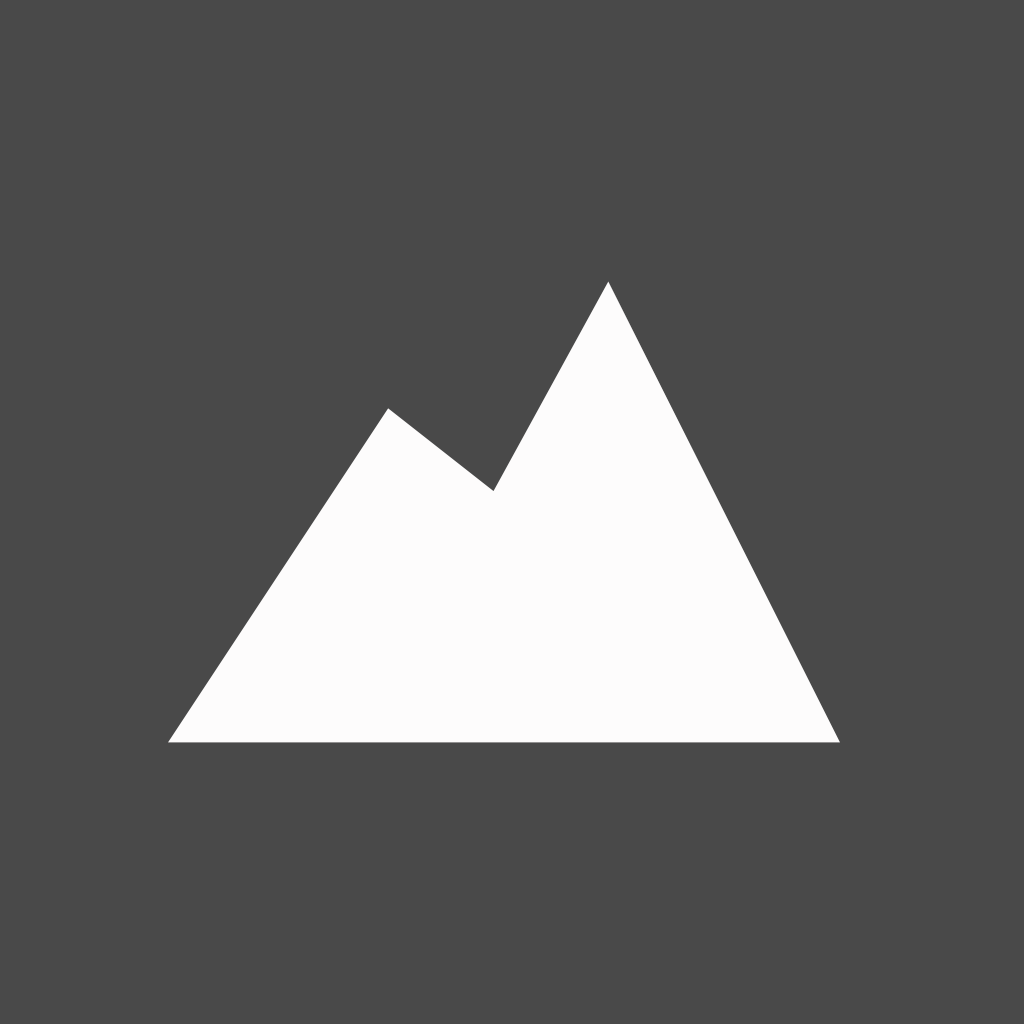
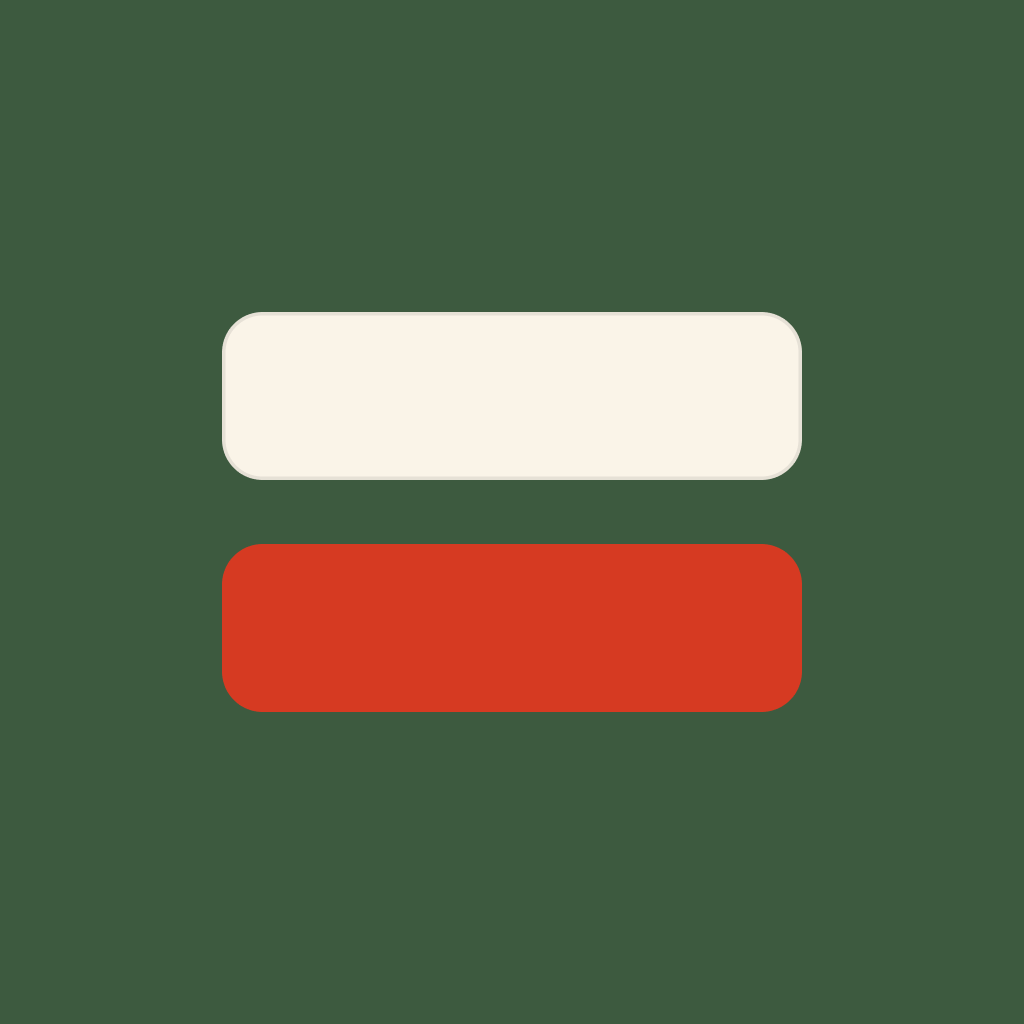
feat(design): blaze brand mark, app surfaces, map style version
- RoamLogo/RoamMark rebuilt as the red/cream GR waymark blaze (Figma
  274:1141): pill bars, cream hairline, wordmark Bricolage Bold in accent
  green; lg/sm lockups per spec; NavBar uses the sm lockup
- the three blaze placements: lockup/icon/splash, trail hero top-right,
  and the chip beside DAY n OF m on the active journey sheet
- app icon swapped to the Figma 1024 export (blaze on ink); Android
  adaptive icon bg #26231E; splash = lg lockup on #FAF7F1
- amenity Stay tiles use the new hut glyph (tab bar keeps home)
- MAP_STYLE_VERSION=2 added for offline trail packs (system lands in
  build phase 5; packs must key cached styles on it)
- POI marker layers already recolored via tokens; junction/peak markers
  don't exist yet — accent exemptions documented in the theme

Changed region(s): [[0.1562, 0.2812, 0.8125, 0.75]]

diff --git a/apps/mobile/components/ui/RoamLogo.tsx b/apps/mobile/components/ui/RoamLogo.tsx
@@ -1,32 +1,61 @@
 import { StyleSheet, Text, View } from 'react-native';
-import Svg, { Circle, Path } from 'react-native-svg';
 import { colors, fonts } from '../../theme';
 
-type Variant = 'dark' | 'light';
-
-/** The circular roam mark (dark = filled circle, light = outline-style on light). */
-export function RoamMark({ size = 28, variant = 'dark' }: { size?: number; variant?: Variant }) {
-  const circle = variant === 'dark' ? colors.accent : colors.bg.surface;
-  const glyph = variant === 'dark' ? colors.bg.surface : colors.accent;
+// The blaze brand mark — the red/cream GR waymark (Figma Logo Mark 274:1141).
+// Two full-width bars: cream on top (hairline border), red below, pill ends.
+// Box ratio w : 0.68w; each bar is 42% of the box height with a 16% gap.
+//
+// The blaze appears in exactly three product placements: (1) the logo
+// lockup / app icon / splash (empty states count as this), (2) top-right of
+// trail hero photos, (3) the chip beside "DAY n OF m" on the active journey
+// sheet. It is never a bullet, divider, spinner or generic badge — a fourth
+// placement requires a design decision first.
+export function RoamMark({ width = 19 }: { width?: number }) {
+  const height = width * 0.68;
+  const bar = height * 0.42;
   return (
-    <Svg width={size} height={size} viewBox="0 0 64 64">
-      <Circle cx={32} cy={32} r={32} fill={circle} />
-      <Path d="M14 44L25.4655 26.6L30.9531 30.9091L36.931 20L49 44H14Z" fill={glyph} />
-    </Svg>
+    <View style={{ width, height, justifyContent: 'space-between' }}>
+      <View
+        style={[styles.bar, styles.cream, { height: bar, borderRadius: bar }]}
+      />
+      <View style={[styles.bar, styles.red, { height: bar, borderRadius: bar }]} />
+    </View>
   );
 }
 
-/** Horizontal logo lockup: the mark followed by the "roam" wordmark. */
-export function RoamLogo({ size = 28 }: { size?: number }) {
+// Horizontal lockup (Figma Logo 187:926): the mark beside the "roam"
+// wordmark in Bricolage Bold, accent green. The mark matches the wordmark
+// x-height (≈52% of font size); both vertically centered.
+const LOCKUPS = {
+  lg: { mark: 38, gap: 11, fontSize: 48, letterSpacing: -0.72 },
+  sm: { mark: 19, gap: 6, fontSize: 24, letterSpacing: -0.36 },
+} as const;
+
+export function RoamLogo({ size = 'sm' }: { size?: keyof typeof LOCKUPS }) {
+  const s = LOCKUPS[size];
   return (
-    <View style={styles.row}>
-      <RoamMark size={size} />
-      <Text style={[styles.word, { fontSize: Math.round(size * 0.72) }]}>roam</Text>
+    <View style={[styles.row, { gap: s.gap }]}>
+      <RoamMark width={s.mark} />
+      <Text
+        style={[
+          styles.word,
+          { fontSize: s.fontSize, lineHeight: s.fontSize, letterSpacing: s.letterSpacing },
+        ]}
+      >
+        roam
+      </Text>
     </View>
   );
 }
 
 const styles = StyleSheet.create({
-  row: { flexDirection: 'row', alignItems: 'center', gap: 8 },
-  word: { fontFamily: fonts.bold, color: colors.text.primary, letterSpacing: -0.3 },
+  row: { flexDirection: 'row', alignItems: 'center' },
+  bar: { width: '100%' },
+  cream: {
+    backgroundColor: colors.brand.blazeCream,
+    borderWidth: StyleSheet.hairlineWidth,
+    borderColor: colors.brand.blazeHairline,
+  },
+  red: { backgroundColor: colors.brand.blazeRed },
+  word: { fontFamily: fonts.displayBold, color: colors.accent },
 });

diff --git a/apps/mobile/app/journey/active/[id].tsx b/apps/mobile/app/journey/active/[id].tsx
@@ -18,7 +18,7 @@ import {
   TrailLayer,
   UserMarker,
 } from '../../../components/map';
-import { Icon, IconButton } from '../../../components/ui';
+import { Icon, IconButton, RoamMark } from '../../../components/ui';
 import { stageSubGeometry, stageViewport } from '../../../lib/activeJourney';
 import { formatElevationM, formatKm, orientRoute, routeChainPlaces } from '../../../lib/format';
 import { locateOnLine } from '../../../lib/geo';
@@ -262,9 +262,13 @@ export default function ActiveJourneyScreen() {
             <>
               <View style={styles.grabber} />
               <View style={styles.stageSummary}>
-                <Text style={styles.summaryDay}>
-                  DAY {dayNum} OF {walkStages.length}
-                </Text>
+                {/* Blaze placement (3): the chip beside "DAY n OF m". */}
+                <View style={styles.summaryDayRow}>
+                  <RoamMark width={14} />
+                  <Text style={styles.summaryDay}>
+                    DAY {dayNum} OF {walkStages.length}
+                  </Text>
+                </View>
                 <Text style={styles.summaryTitle} numberOfLines={1}>
                   {routeLabel}
                 </Text>
@@ -393,6 +397,7 @@ const styles = StyleSheet.create({
     backgroundColor: colors.border.default,
   },
   stageSummary: { gap: spacing[1] },
+  summaryDayRow: { flexDirection: 'row', alignItems: 'center', gap: spacing[3] },
   summaryDay: { ...type.label, color: colors.text.secondary },
   summaryTitle: { ...type.sectionHeader, color: colors.text.primary },
   summaryMeta: { ...type.meta, color: colors.text.secondary },

diff --git a/apps/mobile/app/trail/[id].tsx b/apps/mobile/app/trail/[id].tsx
@@ -11,7 +11,7 @@ import {
 } from 'react-native';
 import { useSafeAreaInsets } from 'react-native-safe-area-context';
 import { MapView, TrailLayer } from '../../components/map';
-import { Button, Icon, StatPill } from '../../components/ui';
+import { Button, Icon, RoamMark, StatPill } from '../../components/ui';
 import type { IconName } from '../../components/ui';
 import { MAP_DEFAULT_CENTER, MAP_DEFAULT_ZOOM } from '../../config/map';
 import { useTrail, useTrailSections } from '../../lib/hooks';
@@ -97,6 +97,10 @@ export default function TrailDetailScreen() {
           <TouchableOpacity style={styles.backBtn} onPress={() => router.back()}>
             <Icon name="arrow-left" size={20} color={colors.accent} />
           </TouchableOpacity>
+          {/* Blaze placement (2): top-right of the trail hero photo. */}
+          <View style={styles.heroBlaze}>
+            <RoamMark width={22} />
+          </View>
           <Text style={styles.heroName}>{trail.ref ?? trail.name}</Text>
           {subtitle ? <Text style={styles.heroSub}>{subtitle}</Text> : null}
         </View>
@@ -172,7 +176,7 @@ export default function TrailDetailScreen() {
             <Text style={styles.onTrailLabel}>ON THIS TRAIL</Text>
             <SummaryRow
               color={colors.marker.refuge}
-              icon="home"
+              icon="stay"
               title="Stay"
               body={`${sections.length > 0 ? sections.length : '—'} sections · refuges and camping along the route`}
             />
@@ -248,6 +252,7 @@ const styles = StyleSheet.create({
     padding: spacing[8],
   },
   heroOverlay: { ...StyleSheet.absoluteFill, backgroundColor: colors.overlay.dark },
+  heroBlaze: { position: 'absolute', top: 57, right: 24 },
   backBtn: {
     position: 'absolute',
     top: 51,

diff --git a/apps/mobile/components/ui/ListItem.tsx b/apps/mobile/components/ui/ListItem.tsx
@@ -40,12 +40,7 @@ export function ListItem(props: Props) {
   const isToggle = props.trailing === 'toggle';
 
   return (
-    <TouchableOpacity
-      style={styles.row}
-      onPress={onPress}
-      disabled={!onPress}
-      activeOpacity={0.7}
-    >
+    <TouchableOpacity style={styles.row} onPress={onPress} disabled={!onPress} activeOpacity={0.7}>
       {showIcon && icon && <Icon name={icon} size={20} color={colors.text.primary} />}
       <Text style={styles.title}>{title}</Text>
       {isToggle ? (

diff --git a/apps/mobile/config/map.ts b/apps/mobile/config/map.ts
@@ -1,6 +1,13 @@
 // All map configuration lives here — style URLs, defaults, tile sources.
 // Swapping renderer (MapTiler → self-hosted) is a change to this file only.
 
+// Style version for offline trail packs. Cached pack styles (marker colors,
+// route paint) key on this — bump it whenever marker/style tokens change, or
+// existing packs keep the old look forever. The design refresh (warm marker
+// palette) is version 2. The offline-pack system (build phase 5) must read
+// this when registering/validating a pack's cached style.
+export const MAP_STYLE_VERSION = 2;
+
 const key = process.env.EXPO_PUBLIC_MAPTILER_KEY;
 
 export const MAP_STYLE_URL = key

diff --git a/apps/mobile/theme/index.ts b/apps/mobile/theme/index.ts
@@ -90,7 +90,12 @@ export const colors: Theme['colors'] = {
     info: progress,
   },
 
-  brand: { blazeRed: palette.blazeRed, blazeCream: palette.blazeCream },
+  brand: {
+    blazeRed: palette.blazeRed,
+    blazeCream: palette.blazeCream,
+    // Hairline on the cream bar so it reads on light surfaces.
+    blazeHairline: 'rgba(0,0,0,0.08)',
+  },
 
   map: {
     base: palette.sand200,

diff --git a/apps/mobile/components/ui/Chip.tsx b/apps/mobile/components/ui/Chip.tsx
@@ -22,7 +22,9 @@ export function Chip({ label, selected, onPress, suffix, disabled }: Props) {
       disabled={disabled}
       activeOpacity={0.8}
     >
-      <Text style={[styles.label, { color: selected ? colors.text.onAccent : colors.text.primary }]}>
+      <Text
+        style={[styles.label, { color: selected ? colors.text.onAccent : colors.text.primary }]}
+      >
         {label}
       </Text>
       {suffix && (

diff --git a/apps/mobile/components/ui/Icon.tsx b/apps/mobile/components/ui/Icon.tsx
@@ -58,9 +58,7 @@ function makeGlyph(paths: string[]) {
 }
 
 // Hut with door.
-const Stay = makeGlyph([
-  'M4.4 10.6L12 4.6L19.6 10.6M6.4 9.2V19H17.6V9.2M10.4 19V14.4H13.6V19',
-]);
+const Stay = makeGlyph(['M4.4 10.6L12 4.6L19.6 10.6M6.4 9.2V19H17.6V9.2M10.4 19V14.4H13.6V19']);
 
 // Droplet with interior ripple arc.
 const WaterBottle = makeGlyph([

diff --git a/apps/mobile/app/section/[id].tsx b/apps/mobile/app/section/[id].tsx
@@ -215,7 +215,7 @@ export default function SectionDetailScreen() {
             <View style={styles.summaryRows}>
               <SummaryRow
                 color={colors.marker.refuge}
-                icon="home"
+                icon="stay"
                 title="Stay"
                 body="Check refuges along this section — book ahead in season."
               />

diff --git a/apps/mobile/components/ui/NavBar.tsx b/apps/mobile/components/ui/NavBar.tsx
@@ -4,7 +4,7 @@ import { RoamLogo } from './RoamLogo';
 export function NavBar() {
   return (
     <View style={styles.bar}>
-      <RoamLogo size={26} />
+      <RoamLogo size="sm" />
     </View>
   );
 }

diff --git a/apps/mobile/theme/types.ts b/apps/mobile/theme/types.ts
@@ -22,7 +22,7 @@ export interface ThemeColors {
     /** @deprecated alias of `progress` — kept for one release, then removed. */
     info: StatusPair;
   };
-  brand: { blazeRed: string; blazeCream: string };
+  brand: { blazeRed: string; blazeCream: string; blazeHairline: string };
   map: { base: string; road: string; green: string; route: string; water: string; contour: string };
   overlay: {
     dark: string;

diff --git a/apps/mobile/app/(tabs)/map.tsx b/apps/mobile/app/(tabs)/map.tsx
@@ -281,7 +281,6 @@ const styles = StyleSheet.create({
     elevation: 4,
   },
 
-
   geoLabel: {
     flexDirection: 'row',
     alignItems: 'center',